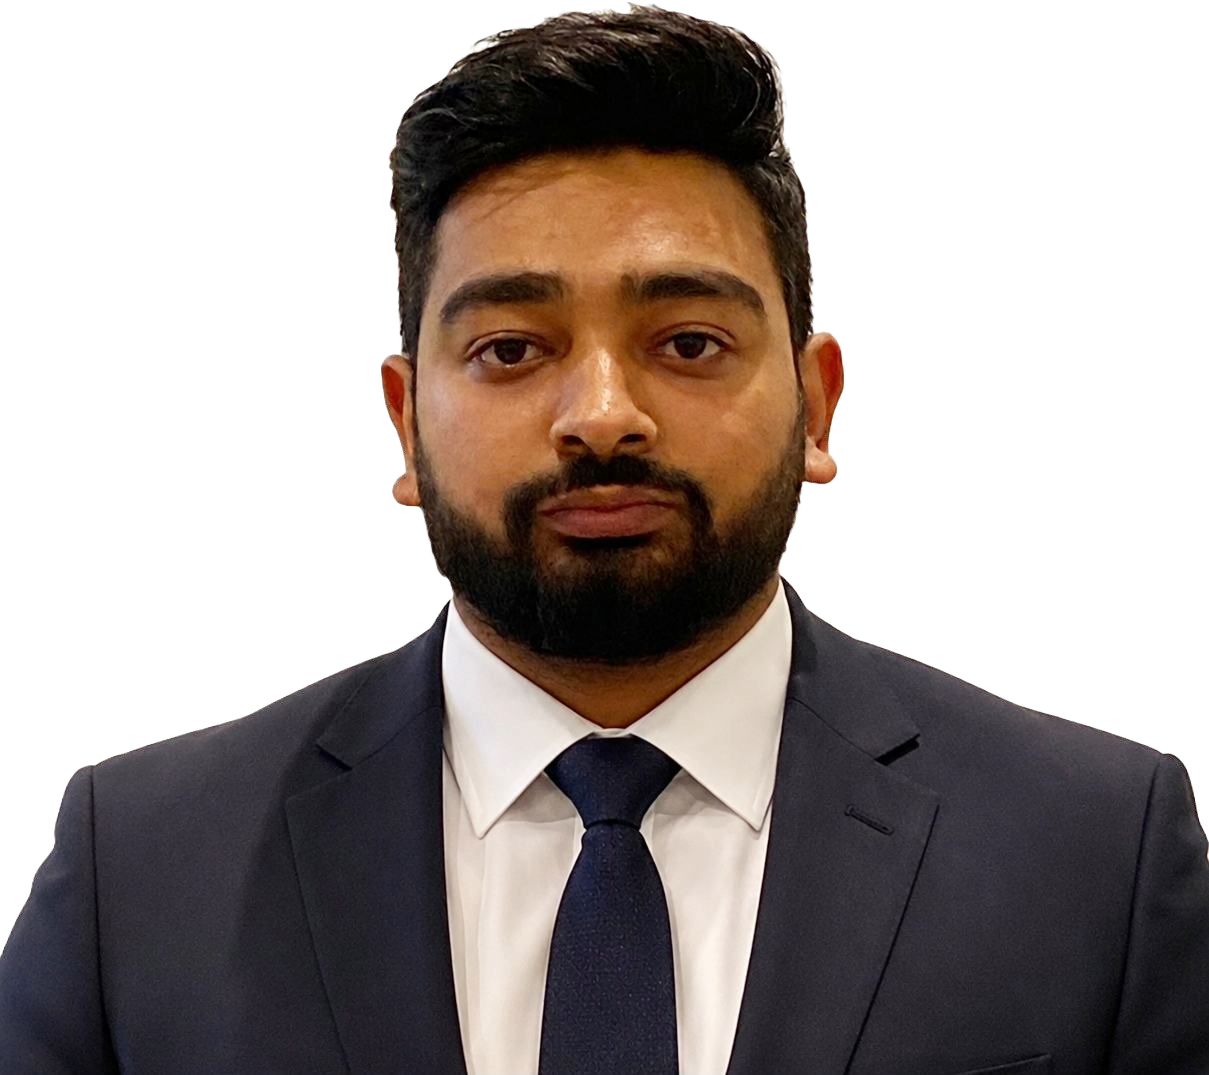
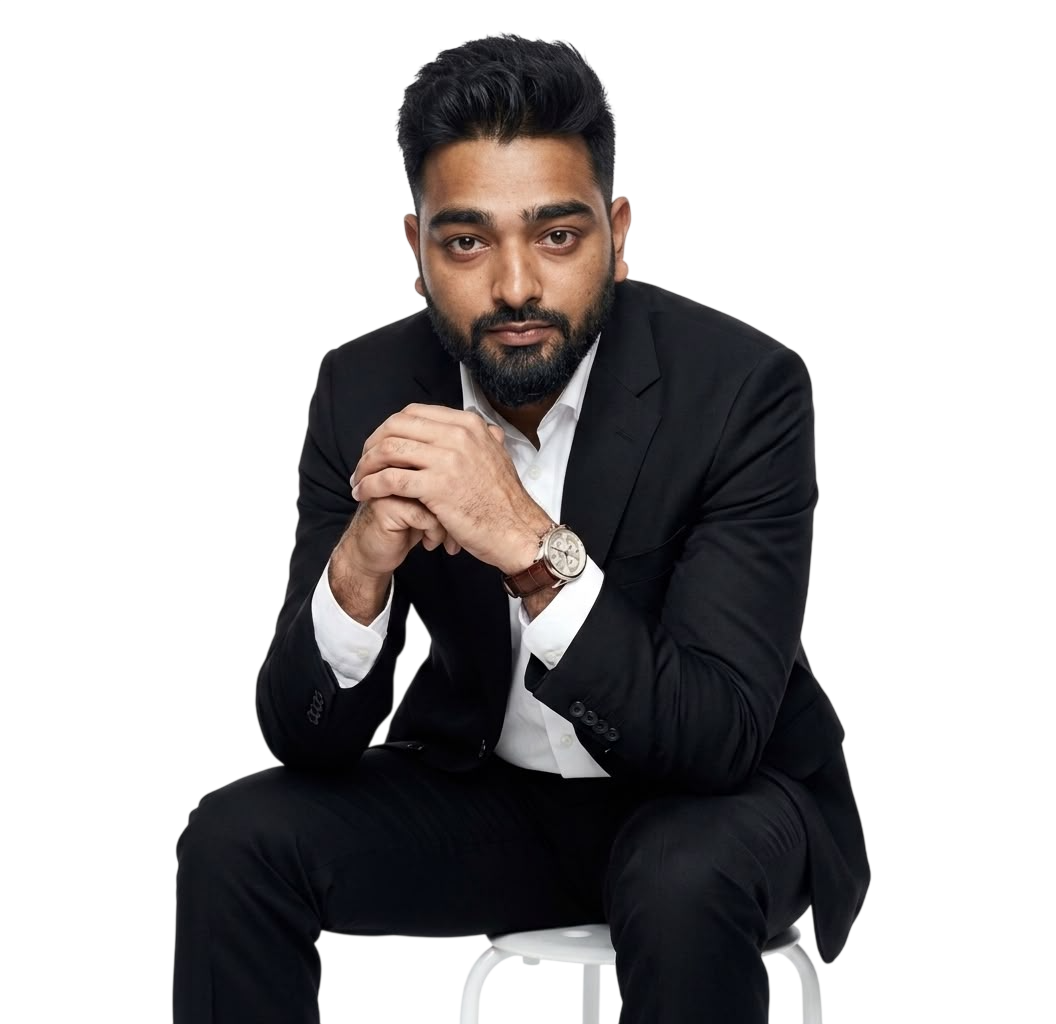
General fixes

diff --git a/frontend/src/pages/Contact.jsx b/frontend/src/pages/Contact.jsx
@@ -91,8 +91,16 @@ const Contact = () => {
                 <FiPhone className="w-8 h-8 text-[#f7a800]" />
               </div>
               <h3 className="text-xl font-bold text-[#0b2046] mb-3">Call Us</h3>
-              <a href="tel:+12818549072" className="text-slate-600 font-medium hover:text-[#f7a800] transition-colors mb-1">+1 (281) 854-9072</a>
-              <a href="tel:+12818915559" className="text-slate-600 font-medium hover:text-[#f7a800] transition-colors">+1 (281) 891-5559</a>
+              <div className="space-y-3 w-full">
+                <div>
+                  <p className="text-[10px] font-black text-slate-400 uppercase tracking-widest mb-0.5">Junaid</p>
+                  <a href="tel:+12818549072" className="text-slate-600 font-medium hover:text-[#f7a800] transition-colors block text-sm sm:text-base">+1 (281) 854-9072</a>
+                </div>
+                <div className="border-t border-slate-100 pt-2">
+                  <p className="text-[10px] font-black text-slate-400 uppercase tracking-widest mb-0.5">Ahad Junaid</p>
+                  <a href="tel:+12818915559" className="text-slate-600 font-medium hover:text-[#f7a800] transition-colors block text-sm sm:text-base">+1 (281) 891-5559</a>
+                </div>
+              </div>
             </div>
 
             {/* Email Card */}
@@ -101,8 +109,16 @@ const Contact = () => {
                 <FiMail className="w-8 h-8 text-[#f7a800]" />
               </div>
               <h3 className="text-xl font-bold text-[#0b2046] mb-3">Email Us</h3>
-              <a href="mailto:info@pmcimportsllc.com" className="text-slate-600 font-medium hover:text-[#f7a800] transition-colors mb-1">info@pmcimportsllc.com</a>
-              <p className="text-slate-400 text-sm mt-2">Mon-Fri, 9am - 5pm CST</p>
+              <div className="space-y-3 w-full">
+                <div>
+                  <p className="text-[10px] font-black text-slate-400 uppercase tracking-widest mb-0.5">Ahad Junaid</p>
+                  <a href="mailto:info@pmcimportsllc.com" className="text-slate-600 font-medium hover:text-[#f7a800] transition-colors block text-sm sm:text-base">info@pmcimportsllc.com</a>
+                </div>
+                <div className="border-t border-slate-100 pt-2">
+                  <p className="text-[10px] font-black text-slate-400 uppercase tracking-widest mb-0.5">Junaid</p>
+                  <a href="mailto:junaid@pmcimportsllc.com" className="text-slate-600 font-medium hover:text-[#f7a800] transition-colors block text-sm sm:text-base">junaid@pmcimportsllc.com</a>
+                </div>
+              </div>
             </div>
           </div>
 

diff --git a/frontend/src/components/Footer.jsx b/frontend/src/components/Footer.jsx
@@ -36,9 +36,10 @@ const Footer = () => {
               <span className="absolute -bottom-2 left-0 w-10 h-0.5 bg-[#f7a800]"></span>
             </h4>
             <ul className="space-y-3">
-              <li className="text-slate-400"><span className="font-semibold text-slate-300">Phone:</span> <a href="tel:+12818549072" className="hover:text-[#f7a800] transition-colors">+1 (281) 854-9072</a></li>
-              <li className="text-slate-400"><span className="font-semibold text-slate-300">Phone:</span> <a href="tel:+12818915559" className="hover:text-[#f7a800] transition-colors">+1 (281) 891-5559</a></li>
-              <li className="text-slate-400"><span className="font-semibold text-slate-300">Email:</span> <a href="mailto:info@pmcimportsllc.com" className="hover:text-[#f7a800] transition-colors">info@pmcimportsllc.com</a></li>
+              <li className="text-slate-400"><span className="font-semibold text-slate-300">Junaid (Phone):</span> <a href="tel:+12818549072" className="hover:text-[#f7a800] transition-colors">+1 (281) 854-9072</a></li>
+              <li className="text-slate-400"><span className="font-semibold text-slate-300">Ahad (Phone):</span> <a href="tel:+12818915559" className="hover:text-[#f7a800] transition-colors">+1 (281) 891-5559</a></li>
+              <li className="text-slate-400"><span className="font-semibold text-slate-300">Ahad (Email):</span> <a href="mailto:info@pmcimportsllc.com" className="hover:text-[#f7a800] transition-colors">info@pmcimportsllc.com</a></li>
+              <li className="text-slate-400"><span className="font-semibold text-slate-300">Junaid (Email):</span> <a href="mailto:junaid@pmcimportsllc.com" className="hover:text-[#f7a800] transition-colors">junaid@pmcimportsllc.com</a></li>
             </ul>
           </div>
         </div>

diff --git a/frontend/src/pages/Home/components/Ecosystem.jsx b/frontend/src/pages/Home/components/Ecosystem.jsx
@@ -41,10 +41,10 @@ const Ecosystem = () => {
           <div className="group rounded-3xl overflow-hidden bg-white/[0.03] border border-white/10 backdrop-blur-xl shadow-2xl transition-all duration-500 hover:-translate-y-2 hover:bg-white/[0.05] hover:border-white/20 flex flex-col">
             <div className="relative h-64 overflow-hidden bg-slate-900">
               <div className="absolute inset-0 bg-[#0b2046]/40 group-hover:bg-transparent transition-colors duration-500 z-10"></div>
-              <img src="/assets/eco-fleet.png" alt="RA Fred Fleet" className="w-full h-full object-cover transition-transform duration-700 group-hover:scale-110" />
+              <img src="/assets/eco-fleet.png" alt="RA Freight Fleet" className="w-full h-full object-cover transition-transform duration-700 group-hover:scale-110" />
             </div>
             <div className="p-8 flex-1 flex flex-col">
-              <h3 className="text-2xl font-bold text-white mb-4 group-hover:text-[#f7a800] transition-colors duration-300">RA Fred Solution Logistic</h3>
+              <h3 className="text-2xl font-bold text-white mb-4 group-hover:text-[#f7a800] transition-colors duration-300">RA Freight Solution Logistic</h3>
               <p className="text-slate-300 leading-relaxed mb-6 flex-1">
                 Our dedicated, in-house fleet ensuring direct-to-store delivery to over 400 shops. Total control over last-mile freshness.
               </p>

diff --git a/frontend/src/pages/Products.jsx b/frontend/src/pages/Products.jsx
@@ -425,10 +425,11 @@ const Products = () => {
                     <label className="block text-sm font-bold text-slate-700 mb-2">Est. Order Quantity *</label>
                     <select name="quantity" value={quoteData.quantity} onChange={handleQuoteChange} className="w-full px-4 py-3 bg-slate-50 border border-slate-200 rounded-xl focus:outline-none focus:ring-2 focus:ring-[#0b2046]/20 focus:border-[#0b2046] transition-all text-slate-700 cursor-pointer" required>
                       <option value="" disabled>Select quantity...</option>
-                      <option value="1-5 Pallets">1-5 Pallets</option>
-                      <option value="10+ Pallets">10+ Pallets</option>
-                      <option value="Half Container">Half Container</option>
-                      <option value="Full Container">Full Container</option>
+                      <option value="10 Cases">10 Cases</option>
+                      <option value="25 Cases">25 Cases</option>
+                      <option value="1 Pallet">1 Pallet</option>
+                      <option value="5 Pallets">5 Pallets</option>
+                      <option value="10 Pallets">10 Pallets</option>
                     </select>
                   </div>
                 </div>

diff --git a/frontend/src/pages/Services.jsx b/frontend/src/pages/Services.jsx
@@ -90,7 +90,7 @@ const Services = () => {
           <div className="flex flex-col-reverse lg:flex-row items-center gap-16">
             <div className="lg:w-1/2">
               <h2 className="text-sm font-bold text-[#f7a800] uppercase tracking-[0.2em] mb-4">Vertical Integration</h2>
-              <h3 className="text-3xl md:text-5xl font-bold text-[#0b2046] mb-6 leading-tight">RA Fred Solution<br />Logistic Fleet</h3>
+              <h3 className="text-3xl md:text-5xl font-bold text-[#0b2046] mb-6 leading-tight">RA Freight Solution<br />Logistic Fleet</h3>
               <p className="text-lg text-slate-600 leading-relaxed mb-6">
                 Unlike many distributors that rely heavily on third parties, PMC operates its own dedicated logistics division. This guarantees full control over last-mile delivery, essential for maintaining the shelf life of fresh and frozen goods.
               </p>

diff --git a/frontend/src/pages/Home/components/Infrastructure.jsx b/frontend/src/pages/Home/components/Infrastructure.jsx
@@ -53,7 +53,7 @@ const Infrastructure = () => {
             </div>
             <h3 className="text-2xl font-bold text-[#0b2046] mb-3">12 States</h3>
             <p className="text-slate-600 leading-relaxed">
-              Direct fleet coverage delivering temperature-assured products leveraging our exclusive RA Fred Solution Logistic network.
+              Direct fleet coverage delivering temperature-assured products leveraging our exclusive RA Freight Solution Logistic network.
             </p>
           </div>
         </div>

diff --git a/frontend/src/pages/Home/components/CTA.jsx b/frontend/src/pages/Home/components/CTA.jsx
@@ -24,7 +24,7 @@ const CTA = () => {
               <FiArrowRight className="w-5 h-5 group-hover:translate-x-1 transition-transform" />
             </Link>
             <a href="tel:+12818549072" className="flex items-center gap-3 px-8 py-4 bg-white/10 hover:bg-white/20 backdrop-blur-md border border-white/20 text-white font-semibold rounded-xl transition-all duration-300">
-              +1 (281) 854-9072
+              Call Junaid: +1 (281) 854-9072
             </a>
           </div>
 
